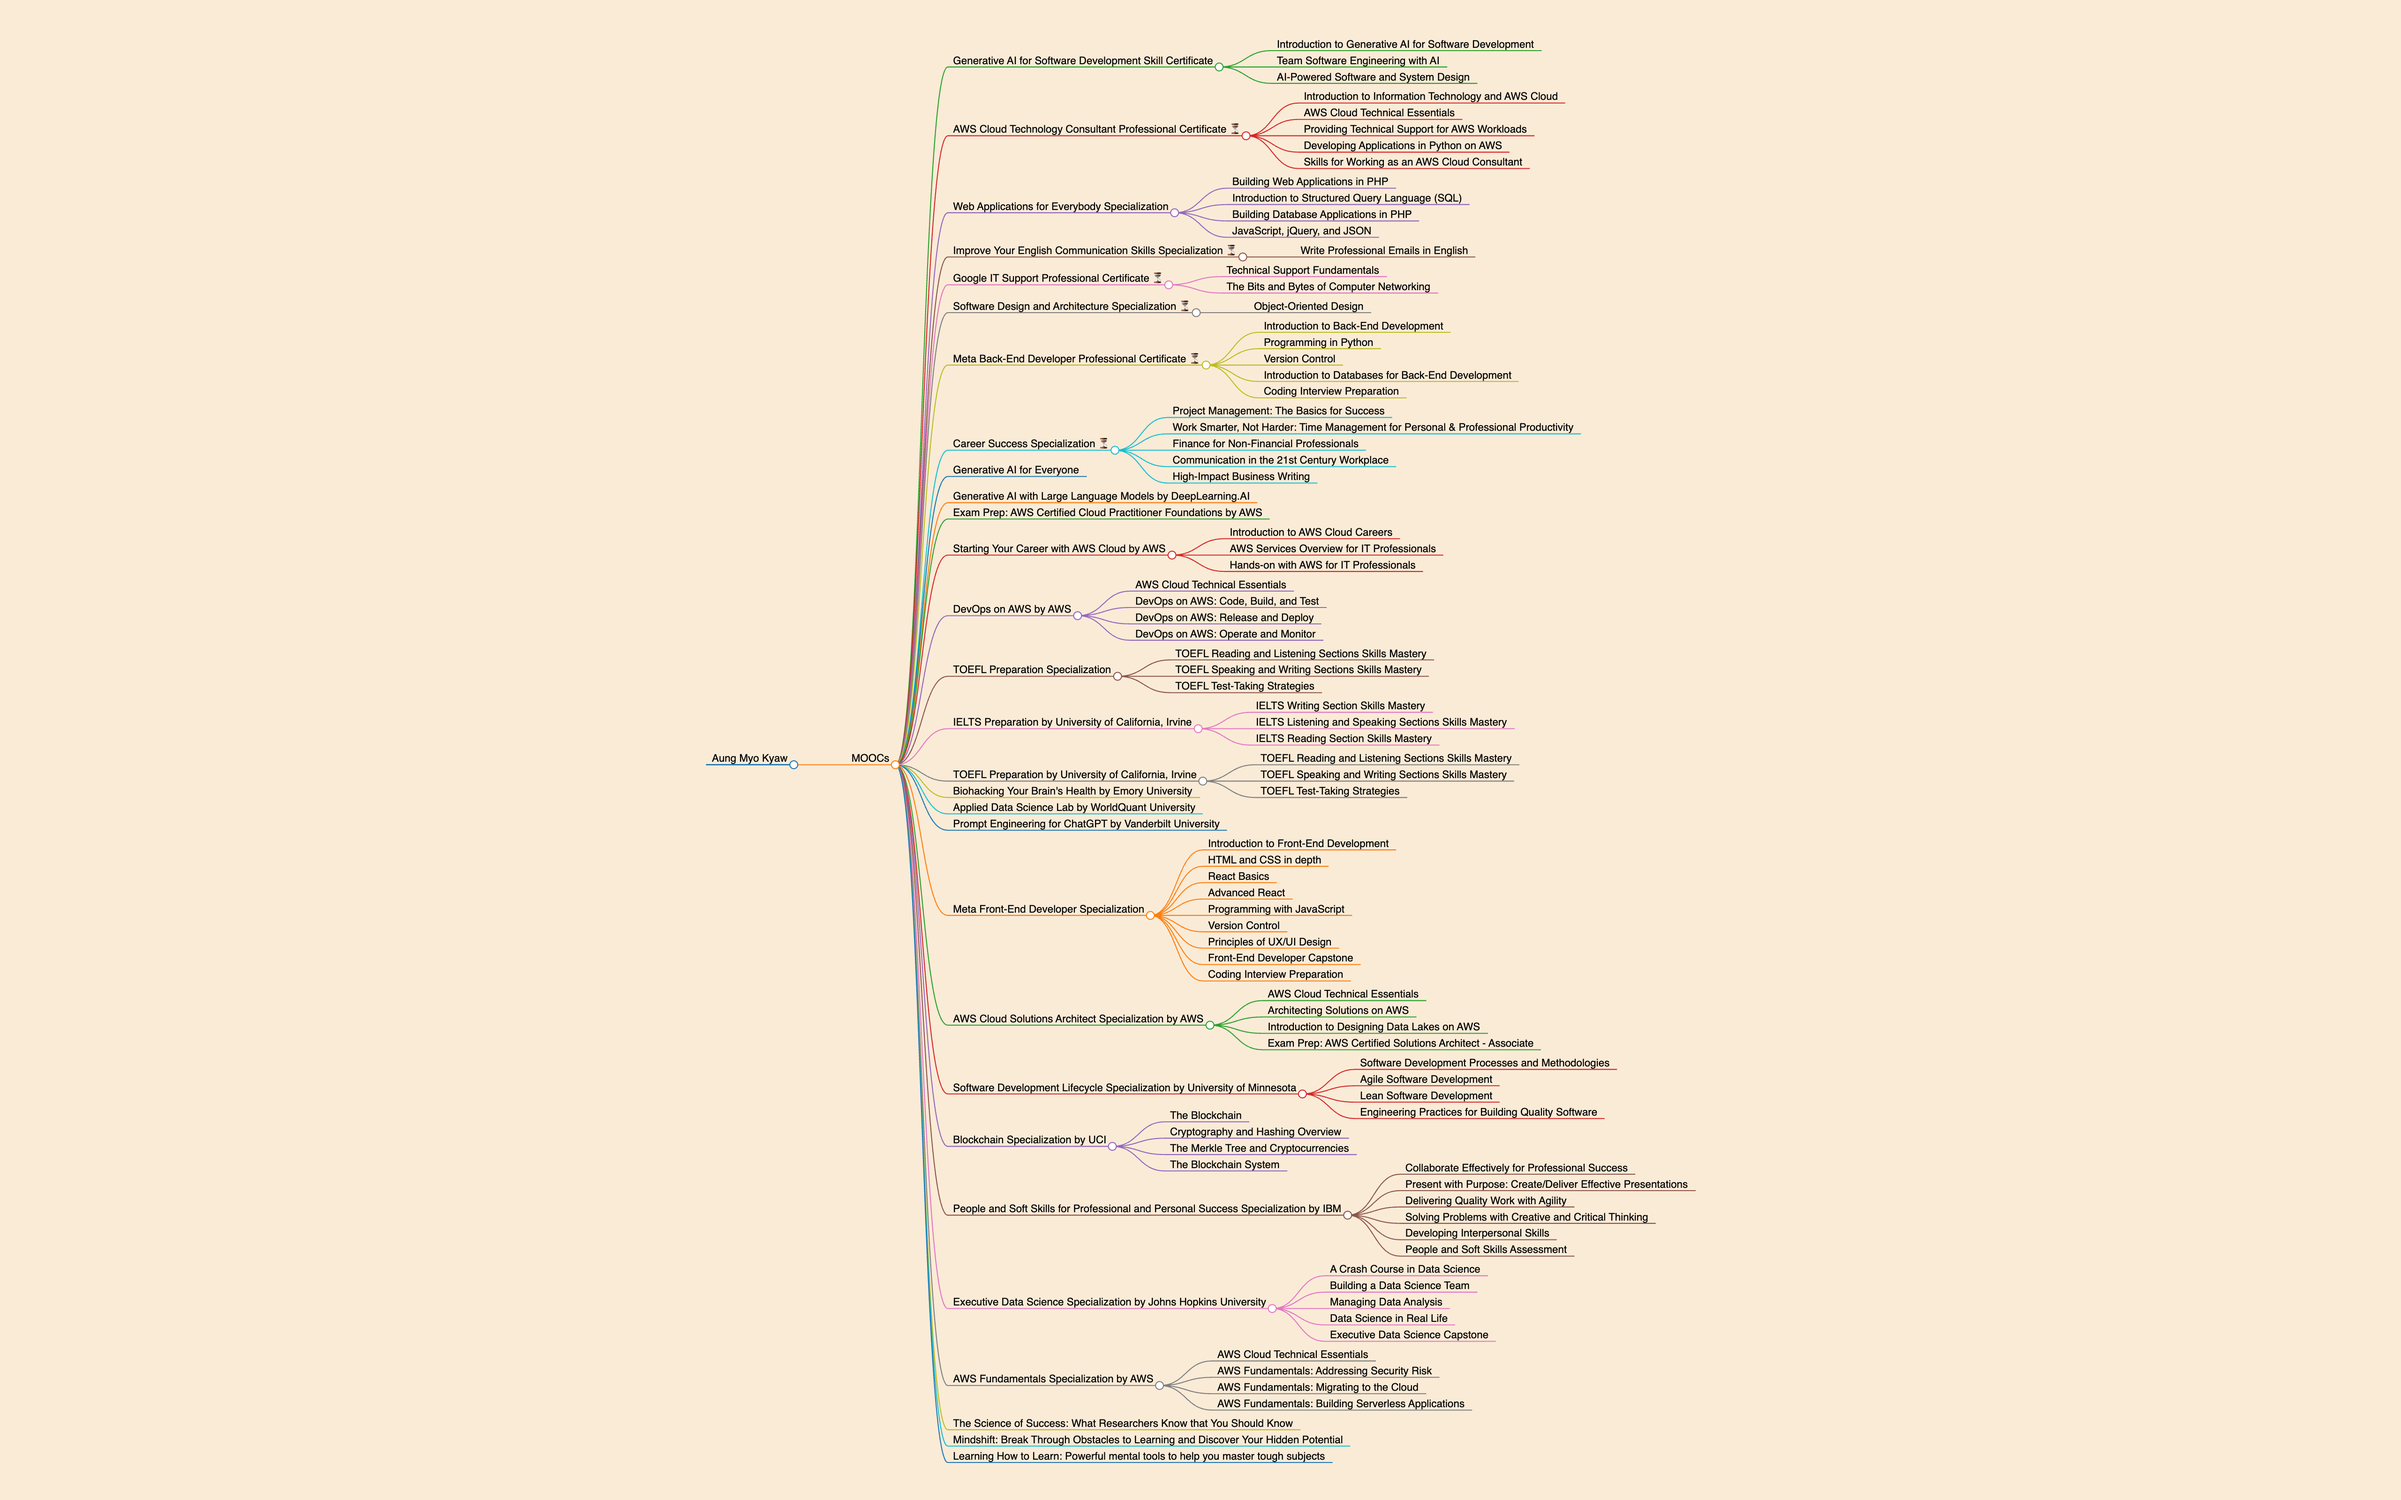
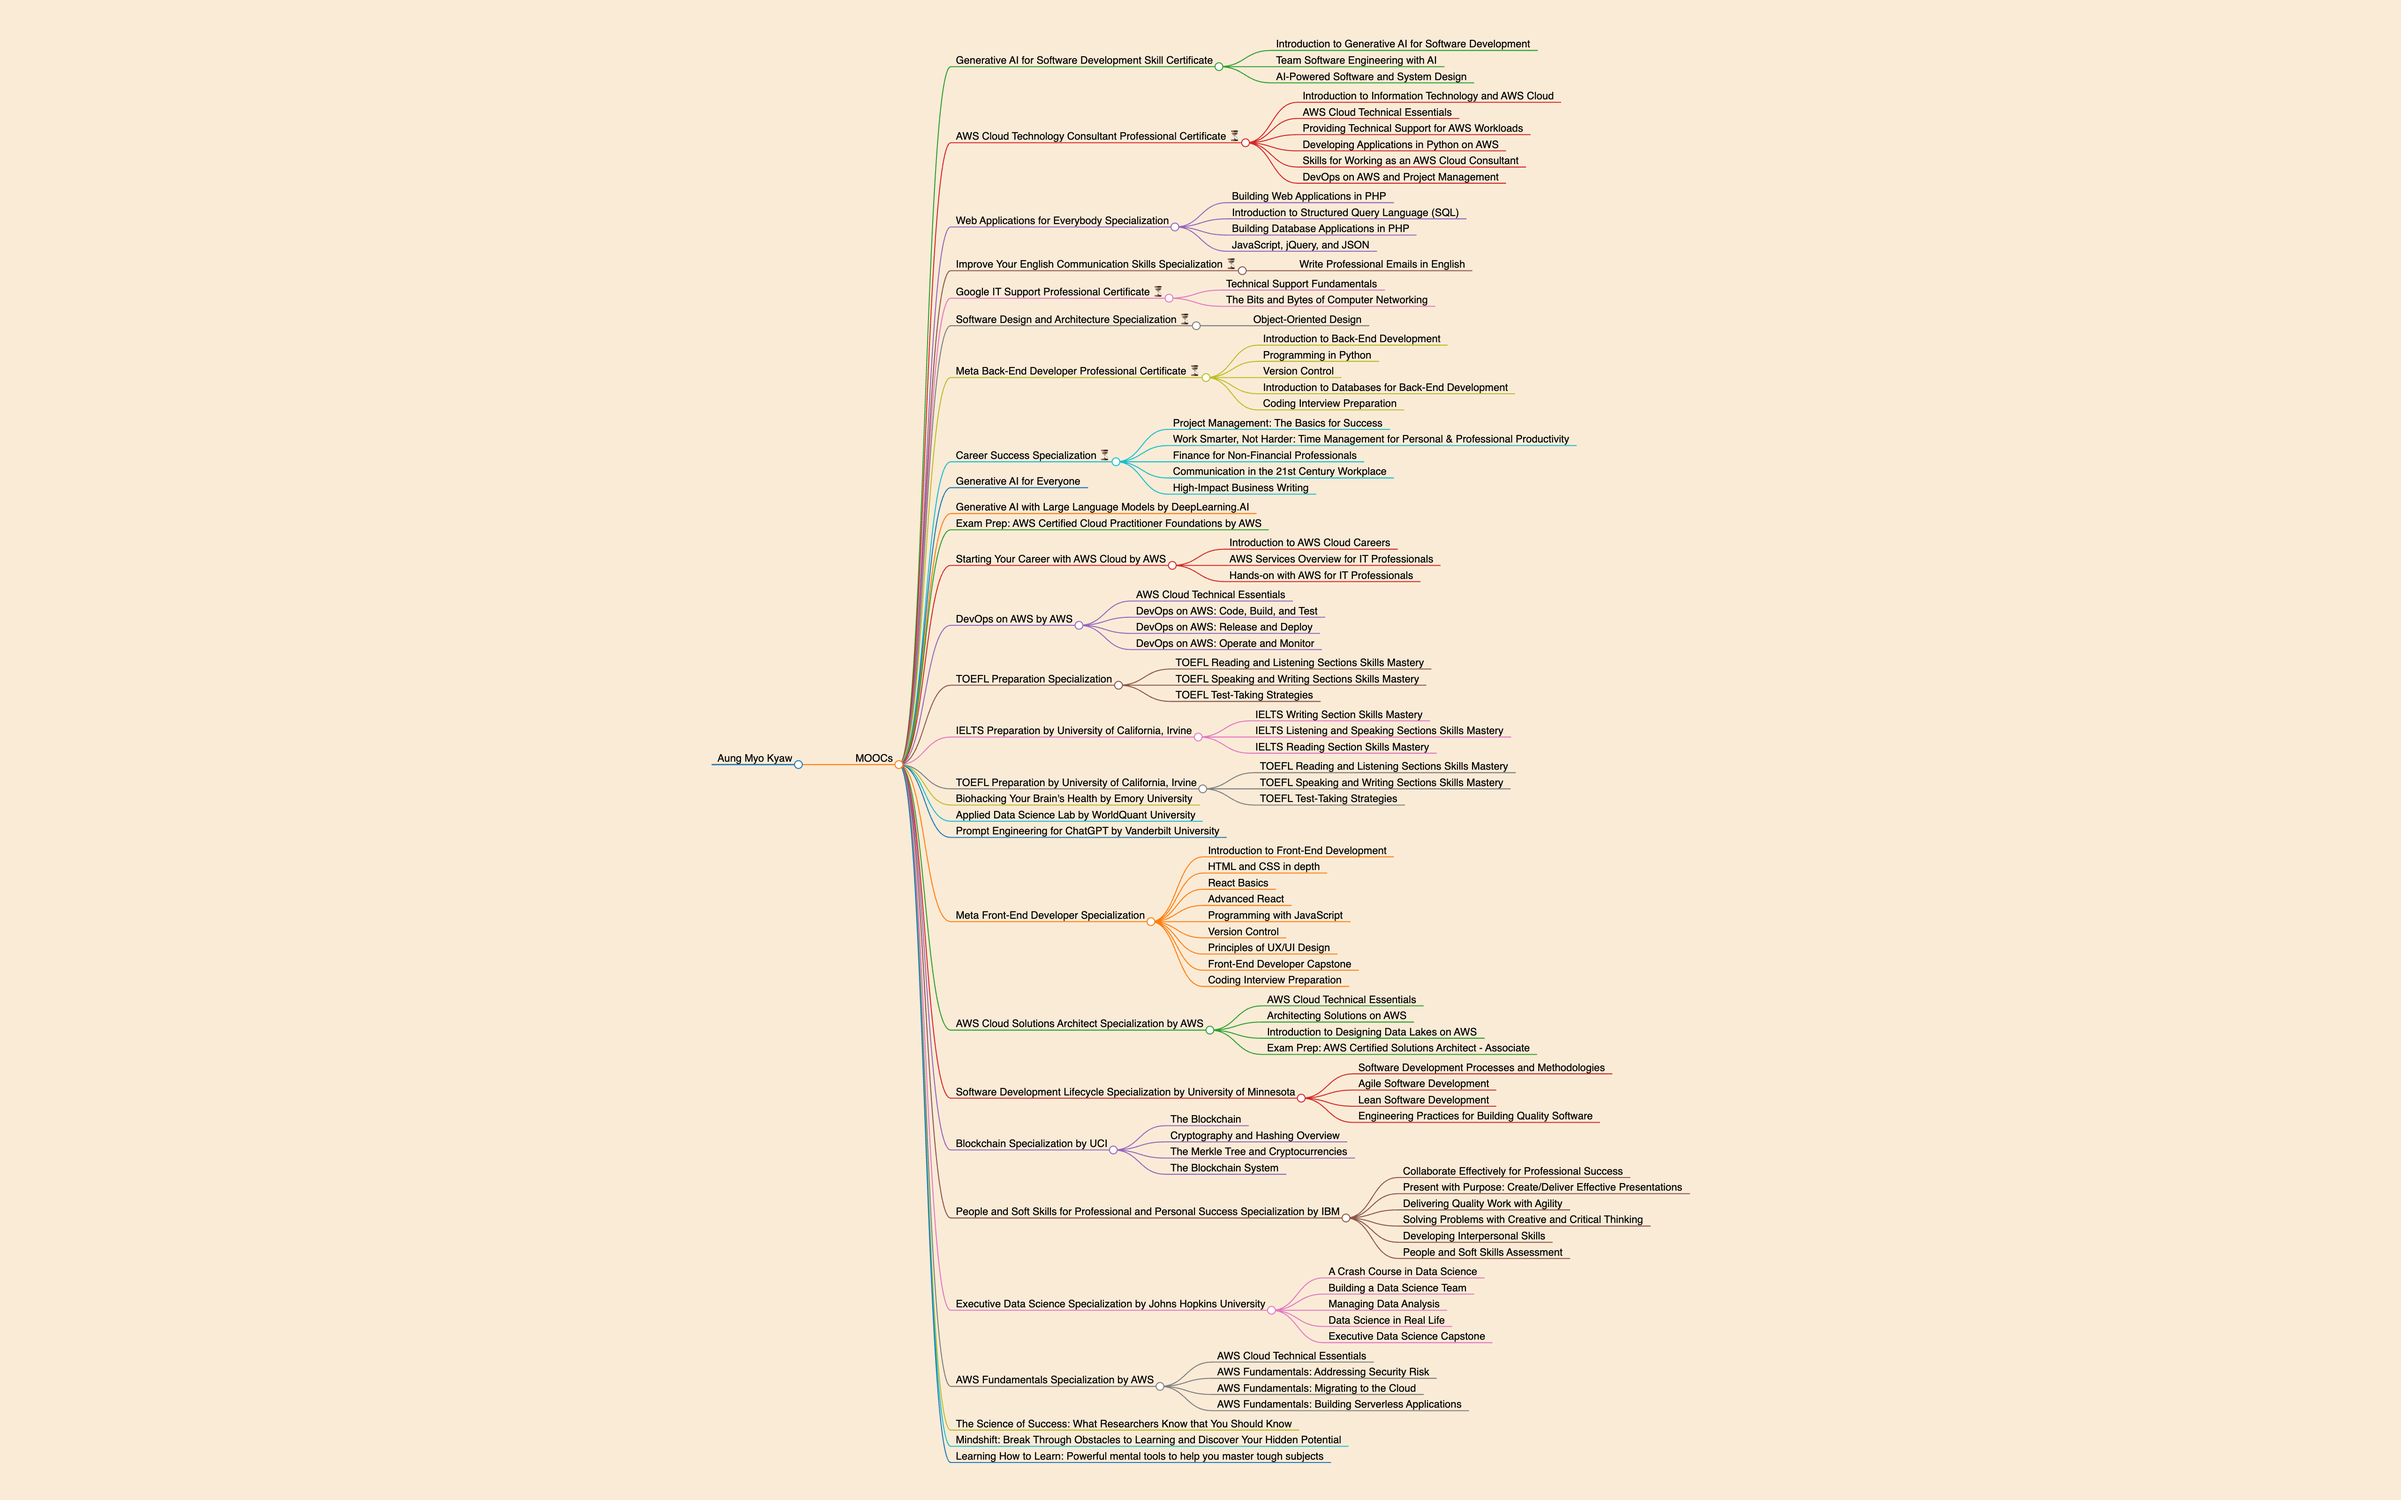
feat: update

Changed region(s): [[0.3125, 0.0312, 0.6875, 0.9688]]

diff --git a/README.md b/README.md
@@ -36,6 +36,7 @@ markmap:
 - [Providing Technical Support for AWS Workloads](https://www.coursera.org/account/accomplishments/certificate/27NM6MWC2IQ2)
 - [Developing Applications in Python on AWS](https://www.coursera.org/account/accomplishments/certificate/0BK96THRUU05)
 - [Skills for Working as an AWS Cloud Consultant](https://www.coursera.org/account/accomplishments/certificate/QJ46WQ4D80BP)
+- [DevOps on AWS and Project Management](https://www.coursera.org/account/accomplishments/certificate/OU3GDACIIWAC)
 
 ### [Web Applications for Everybody Specialization](https://www.coursera.org/account/accomplishments/specialization/certificate/RHZNGIL8I4FA)
 
